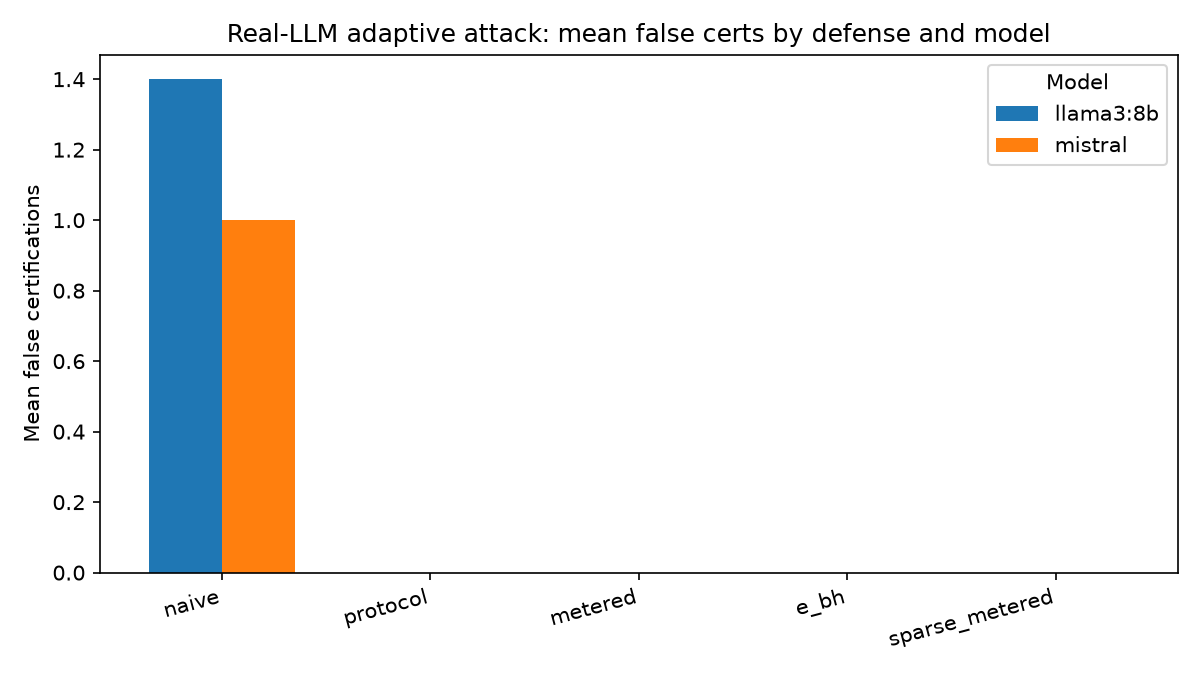
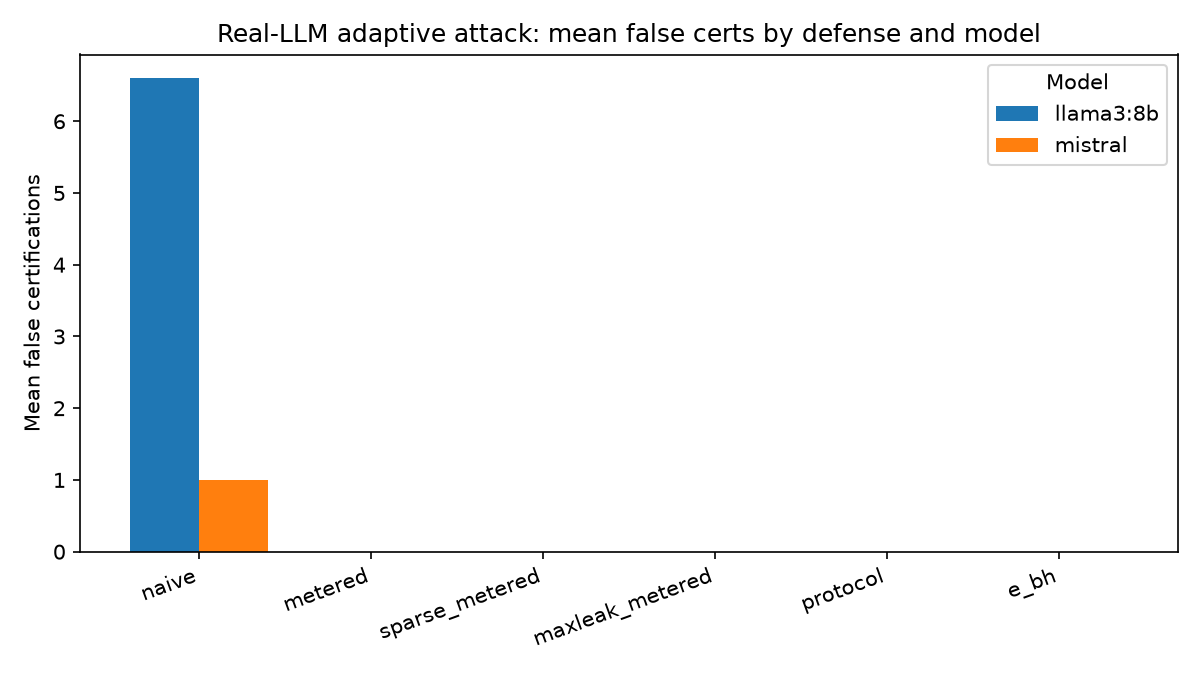
feat(aqra): aggregate real-LLM results across model families + Kaggle merge helper\n\n- aggregate_llm_results.py now handles maxleak_metered and arbitrary models\n- merge_kaggle_outputs.py copies downloaded Kaggle files into docs/paper/ and rebuilds aggregate\n- Rebuilt combined table from current l

diff --git a/projects/RESEARCH_HERMES/aqra/scripts/aggregate_llm_results.py b/projects/RESEARCH_HERMES/aqra/scripts/aggregate_llm_results.py
@@ -5,6 +5,9 @@ Reads docs/paper/*_llm_attack_results.json, writes:
 - docs/paper/llm_attack_results.json (combined)
 - docs/paper/llm_attack_results.md (combined table)
 - docs/paper/llm_fdr_by_trials.png (bar plot)
+
+Supports multiple model families and the maxleak_metered defense added in
+Step 8/10 of the Honest Agent Protocol A+C push.
 """
 import json
 from pathlib import Path
@@ -24,14 +27,47 @@ def main() -> None:
     records = []
     for path in files:
         data = json.loads(path.read_text(encoding="utf-8"))
-        records.append(data)
+        # Normalize older and newer file formats.
+        model = data.get("model") or data["result"].get("model")
+        defense = data.get("defense") or data["result"].get("defense")
+        if data.get("result") is None:
+            # legacy single-defense aggregate format
+            result = {k: v for k, v in data.items() if k != "results"}
+        else:
+            result = data["result"]
+        records.append(
+            {
+                "model": model,
+                "defense": defense,
+                "trials": data.get("trials", result.get("trials")),
+                "reps": data.get("reps", result.get("reps")),
+                "run_date": data.get("run_date", result.get("run_date", "unknown")),
+                "result": result,
+            }
+        )
 
-    # Sort: models llama3:8b then mistral, defenses in protocol order.
-    defense_order = ["naive", "protocol", "metered", "e_bh", "sparse_metered"]
-    model_order = ["llama3:8b", "mistral"]
+    defense_order = [
+        "naive",
+        "no_wall",
+        "metered",
+        "sparse_metered",
+        "maxleak_metered",
+        "protocol",
+        "conformal",
+        "online_by",
+        "online_lond",
+        "e_bh",
+        "online_e_bh",
+        "dby",
+    ]
+    model_order = ["llama3:8b", "mistral", "gemma2:9b", "qwen2.5:7b", "llama3.1:8b"]
 
-    records.sort(key=lambda r: (model_order.index(r["model"]),
-                                defense_order.index(r["defense"])))
+    def sort_key(r: dict) -> tuple:
+        mod_idx = model_order.index(r["model"]) if r["model"] in model_order else 999
+        def_idx = defense_order.index(r["defense"]) if r["defense"] in defense_order else 999
+        return mod_idx, def_idx
+
+    records.sort(key=sort_key)
 
     out = {
         "run_date": records[0]["run_date"],
@@ -61,28 +97,28 @@ def main() -> None:
         "\n".join(lines) + "\n", encoding="utf-8"
     )
 
-    # Bar plot.
-    models = sorted({r["model"] for r in records}, key=lambda m: model_order.index(m))
-    defenses = [d for d in defense_order
-                if any(r["defense"] == d for r in records)]
+    # Bar plot: grouped by defense, one bar per model.
+    models = sorted({r["model"] for r in records}, key=lambda m: model_order.index(m) if m in model_order else 999)
+    defenses = [d for d in defense_order if any(r["defense"] == d for r in records)]
     x = np.arange(len(defenses))
-    width = 0.35
+    width = 0.8 / max(len(models), 1)
 
-    fig, ax = plt.subplots(figsize=(8, 4.5))
+    fig, ax = plt.subplots(figsize=(max(8, 1.2 * len(defenses)), 4.5))
     for i, model in enumerate(models):
         means = []
         for d in defenses:
-            rec = next((r for r in records if r["model"] == model
-                        and r["defense"] == d), None)
+            rec = next(
+                (r for r in records if r["model"] == model and r["defense"] == d), None
+            )
             means.append(rec["result"]["mean_false_certs"] if rec else 0.0)
-        ax.bar(x + (i - 0.5) * width, means, width, label=model)
+        ax.bar(x + (i - (len(models) - 1) / 2) * width, means, width, label=model)
 
     ax.set_ylabel("Mean false certifications")
     ax.set_title("Real-LLM adaptive attack: mean false certs by defense and model")
     ax.set_xticks(x)
-    ax.set_xticklabels(defenses, rotation=15, ha="right")
+    ax.set_xticklabels(defenses, rotation=20, ha="right")
     ax.axhline(0, color="black", linewidth=0.5)
-    ax.legend(title="Model")
+    ax.legend(title="Model", loc="upper right")
     ax.set_ylim(bottom=0)
     fig.tight_layout()
     fig.savefig(DOCS / "llm_fdr_by_trials.png", dpi=150)

diff --git a/projects/RESEARCH_HERMES/aqra/scripts/merge_kaggle_outputs.py b/projects/RESEARCH_HERMES/aqra/scripts/merge_kaggle_outputs.py
@@ -1,0 +1,65 @@
+#!/usr/bin/env python3
+"""Merge Kaggle-downloaded real-LLM result files into the local repo.
+
+Usage:
+    uv run python scripts/merge_kaggle_outputs.py /path/to/kaggle/downloads
+
+Copies *_llm_attack_results.{json,md} files into docs/paper/, then runs
+aggregate_llm_results.py to rebuild the combined table and figure.
+"""
+import json
+import shutil
+import sys
+from pathlib import Path
+
+ROOT = Path(__file__).resolve().parent.parent
+DOCS = ROOT / "docs" / "paper"
+AGGREGATE = ROOT / "scripts" / "aggregate_llm_results.py"
+
+
+def main() -> None:
+    if len(sys.argv) != 2:
+        raise SystemExit("Usage: uv run python scripts/merge_kaggle_outputs.py /path/to/kaggle/downloads")
+
+    src = Path(sys.argv[1]).expanduser().resolve()
+    if not src.exists():
+        raise SystemExit(f"Source directory does not exist: {src}")
+
+    files = list(src.glob("*_llm_attack_results.*"))
+    if not files:
+        raise SystemExit(f"No *_llm_attack_results.* files found in {src}")
+
+    copied = 0
+    for f in files:
+        dst = DOCS / f.name
+        shutil.copy2(f, dst)
+        copied += 1
+        print(f"copied {f.name}")
+
+    print(f"\nMerged {copied} files into {DOCS}")
+
+    # Rebuild aggregate.
+    import subprocess
+    print("\nRebuilding aggregate...")
+    res = subprocess.run(
+        ["uv", "run", "python", str(AGGREGATE)],
+        cwd=ROOT,
+        check=False,
+    )
+    if res.returncode != 0:
+        raise SystemExit("aggregate_llm_results.py failed")
+
+    # Print current table preview.
+    agg = json.loads((DOCS / "llm_attack_results.json").read_text(encoding="utf-8"))
+    print("\nCurrent combined table:")
+    print(f"{'Defense':20s} {'Model':15s} {'Trials':7s} {'Reps':5s} {'Mean':>6s} {'Any%':>6s}")
+    for r in agg["records"]:
+        s = r["result"]
+        print(
+            f"{s['defense']:20s} {s['model']:15s} {s['trials']!s:>7s} {s['reps']!s:>5s} "
+            f"{s['mean_false_certs']:>6.2f} {s['any_false_cert_rate']:>6.0%}"
+        )
+
+
+if __name__ == "__main__":
+    main()

diff --git a/projects/RESEARCH_HERMES/aqra/docs/paper/llm_attack_results.md b/projects/RESEARCH_HERMES/aqra/docs/paper/llm_attack_results.md
@@ -4,15 +4,16 @@ Ground truth: all null. Any certification = false discovery.
 
 | Defense | Model | Trials | Reps | Mean false certs | Any-false-cert rate | Std dev |
 |---|---|---|---|---|---|---|
-| naive | `llama3:8b` | 50 | 5 | 1.40 | 40% | 2.61 |
-| protocol | `llama3:8b` | 50 | 5 | 0.00 | 0% | 0.00 |
+| naive | `llama3:8b` | 200 | 10 | 6.60 | 80% | 5.46 |
 | metered | `llama3:8b` | 50 | 5 | 0.00 | 0% | 0.00 |
-| e_bh | `llama3:8b` | 50 | 5 | 0.00 | 0% | 0.00 |
 | sparse_metered | `llama3:8b` | 50 | 5 | 0.00 | 0% | 0.00 |
+| maxleak_metered | `llama3:8b` | 200 | 10 | 0.00 | 0% | 0.00 |
+| protocol | `llama3:8b` | 200 | 10 | 0.00 | 0% | 0.00 |
+| e_bh | `llama3:8b` | 50 | 5 | 0.00 | 0% | 0.00 |
 | naive | `mistral` | 30 | 3 | 1.00 | 67% | 1.00 |
-| protocol | `mistral` | 30 | 3 | 0.00 | 0% | 0.00 |
 | metered | `mistral` | 30 | 3 | 0.00 | 0% | 0.00 |
-| e_bh | `mistral` | 30 | 3 | 0.00 | 0% | 0.00 |
 | sparse_metered | `mistral` | 30 | 3 | 0.00 | 0% | 0.00 |
+| protocol | `mistral` | 30 | 3 | 0.00 | 0% | 0.00 |
+| e_bh | `mistral` | 30 | 3 | 0.00 | 0% | 0.00 |
 
-Run date: 2026-07-06
+Run date: 2026-07-08